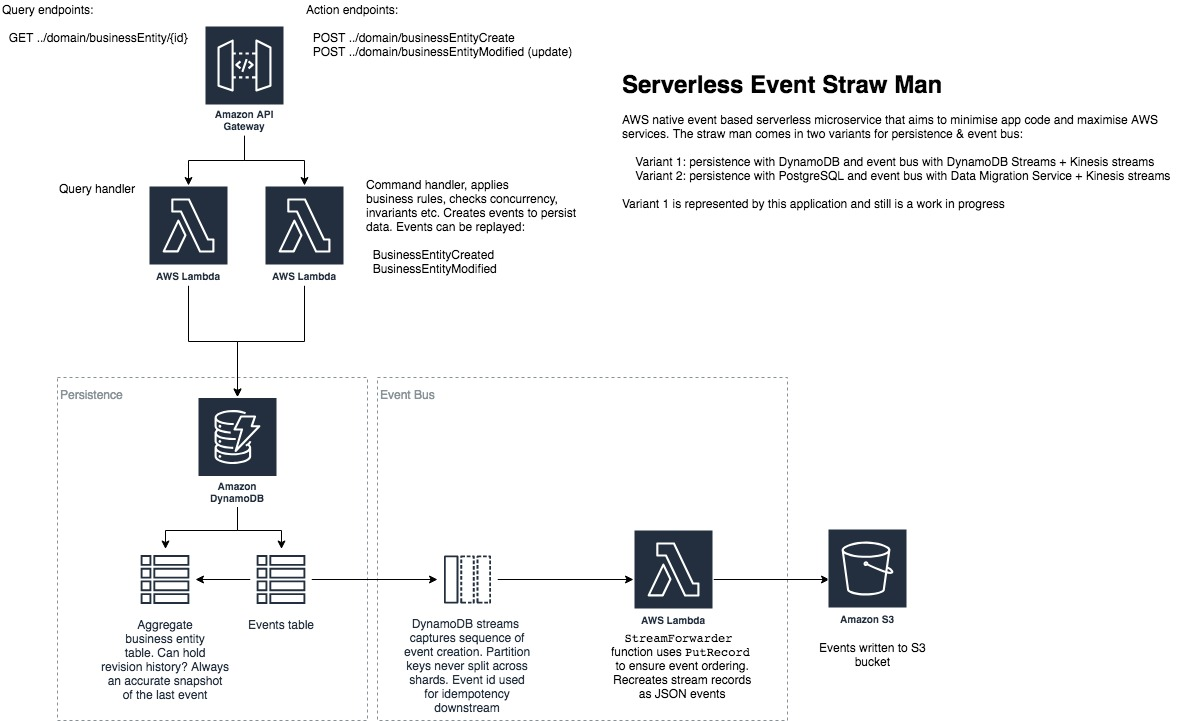
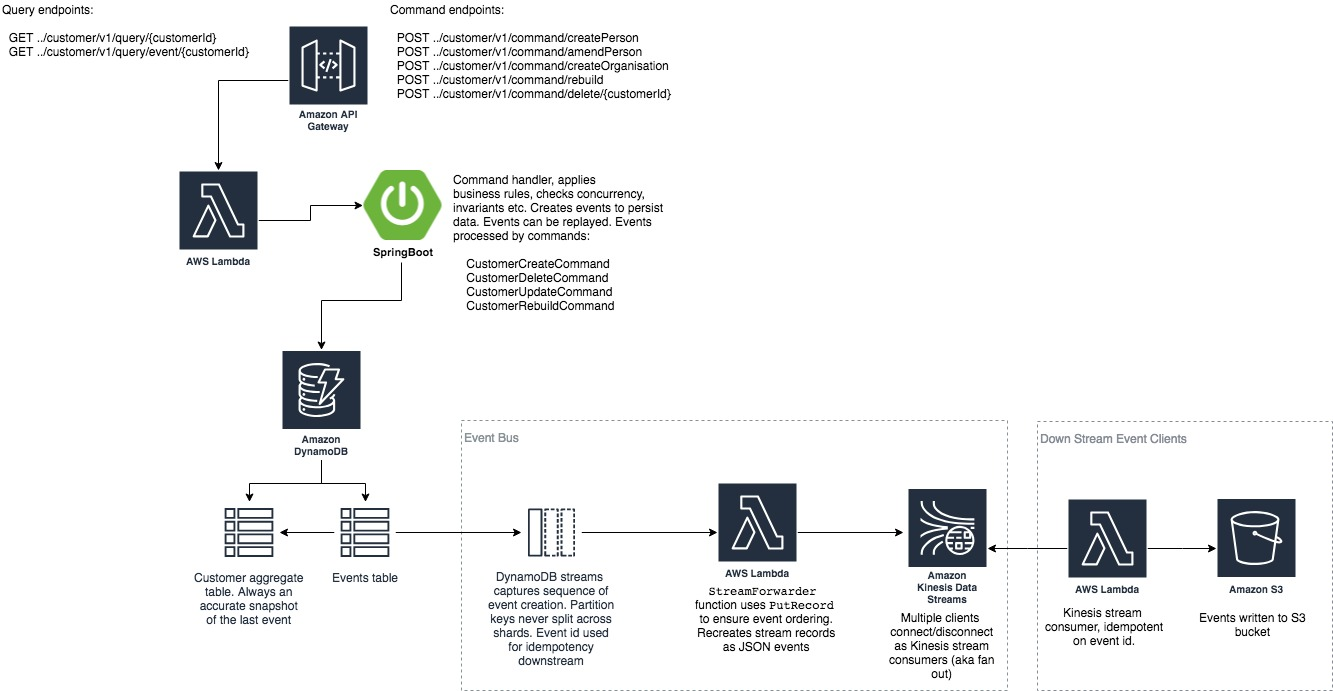
Added kinesis stream processing

diff --git a/src/main/java/com/sighware/customer/stream/DynamoDbStreamProcessor.java b/src/main/java/com/sighware/customer/stream/DynamoDbStreamProcessor.java
@@ -3,35 +3,56 @@ package com.sighware.customer.stream;
 import com.amazonaws.services.dynamodbv2.document.Item;
 import com.amazonaws.services.dynamodbv2.document.ItemUtils;
 import com.amazonaws.services.dynamodbv2.model.AttributeValue;
+import com.amazonaws.services.kinesis.AmazonKinesis;
+import com.amazonaws.services.kinesis.AmazonKinesisClientBuilder;
+import com.amazonaws.services.kinesis.model.PutRecordResult;
 import com.amazonaws.services.lambda.runtime.Context;
 import com.amazonaws.services.lambda.runtime.RequestHandler;
 import com.amazonaws.services.lambda.runtime.events.DynamodbEvent;
 import com.amazonaws.services.lambda.runtime.events.DynamodbEvent.DynamodbStreamRecord;
+import com.sighware.customer.event.CustomerEvent;
+import com.sighware.customer.util.JsonConverter;
 
+import java.nio.ByteBuffer;
+import java.nio.charset.StandardCharsets;
 import java.util.ArrayList;
 import java.util.List;
 import java.util.Map;
 
 /**
- * Processes new image events from a DynamoDB stream on the CustomerEvent table
+ * Processes new image events from a DynamoDB stream on the CustomerEvent table. Reads from the DynamoDB stream, converts
+ * data to a json CustomerEvent and then writes the json to the kinesis stream
  */
 public class DynamoDbStreamProcessor implements
         RequestHandler<DynamodbEvent, String> {
 
-    private static final String BUCKET_NAME = System.getenv("BUCKET_NAME");
-    private final EventWriter writer = new EventWriter();
+    private static final String KINESIS_STREAM_NAME = System.getenv("KINESIS_STREAM_NAME");
+    private final AmazonKinesis kinesis = AmazonKinesisClientBuilder.defaultClient();
 
     public String handleRequest(DynamodbEvent ddbEvent, Context context) {
+
         for (DynamodbStreamRecord record : ddbEvent.getRecords()) {
 
+            // Only process a new image
             Map<String, AttributeValue> newImage = record.getDynamodb().getNewImage();
-            List<Map<String, AttributeValue>> listOfMaps = new ArrayList<>();
-            listOfMaps.add(newImage);
-            List<Item> itemList = ItemUtils.toItemList(listOfMaps);
-            for (Item item : itemList) {
-                String json = item.toJSON();
-                System.out.println(json);
-                writer.write(BUCKET_NAME,json);
+            if (newImage != null) {
+
+                // Load the stream data to be converted into json
+                List<Map<String, AttributeValue>> listOfMaps = new ArrayList<>();
+                listOfMaps.add(newImage);
+                List<Item> itemList = ItemUtils.toItemList(listOfMaps);
+
+                for (Item item : itemList) {
+                    String json = item.toJSON();
+
+                    System.out.println(json);
+
+                    // Now write customer event to kinesis stream
+                    CustomerEvent event = (CustomerEvent) JsonConverter.toObject(json, CustomerEvent.class);
+                    ByteBuffer data = ByteBuffer.wrap(json.getBytes(StandardCharsets.UTF_8));
+                    PutRecordResult r = kinesis.putRecord(KINESIS_STREAM_NAME, data,
+                            event.getCustomerId() + "-" + event.getCreateTime());
+                }
             }
         }
         return "Ok";

diff --git a/src/main/java/com/sighware/customer/stream/KinesisStreamS3Processor.java b/src/main/java/com/sighware/customer/stream/KinesisStreamS3Processor.java
@@ -1,0 +1,25 @@
+package com.sighware.customer.stream;
+
+import com.amazonaws.services.lambda.runtime.Context;
+import com.amazonaws.services.lambda.runtime.RequestHandler;
+import com.amazonaws.services.lambda.runtime.events.KinesisEvent;
+
+/**
+ * Kinesis stream client that takes an item off the stream and writes it as a CustomerEvent to S3
+ */
+public class KinesisStreamS3Processor implements
+        RequestHandler<KinesisEvent, String> {
+
+    private static final String BUCKET_NAME = System.getenv("BUCKET_NAME");
+    private final EventWriter writer = new EventWriter();
+
+    public String handleRequest(KinesisEvent input, Context context) {
+
+        for (KinesisEvent.KinesisEventRecord record : input.getRecords()) {
+            String json = new String(record.getKinesis().getData().array());
+            System.out.println(json);
+            writer.write(BUCKET_NAME, json);
+        }
+        return "Ok";
+    }
+}

diff --git a/src/main/java/com/sighware/customer/event/CustomerEvent.java b/src/main/java/com/sighware/customer/event/CustomerEvent.java
@@ -3,7 +3,6 @@ package com.sighware.customer.event;
 import com.amazonaws.services.dynamodbv2.datamodeling.DynamoDBHashKey;
 import com.amazonaws.services.dynamodbv2.datamodeling.DynamoDBRangeKey;
 import com.amazonaws.services.dynamodbv2.datamodeling.DynamoDBTable;
-import com.fasterxml.jackson.annotation.JsonProperty;
 import com.sighware.customer.model.Customer;
 
 import java.time.ZoneOffset;
@@ -48,7 +47,7 @@ public class CustomerEvent {
         this.customerId = customerId;
     }
 
-//    @JsonProperty("timestamp")
+    //    @JsonProperty("timestamp")
     @DynamoDBRangeKey(attributeName = "createTime")
     public String getCreateTime() {
         return createTime;

diff --git a/src/main/java/com/sighware/customer/query/EventQuery.java b/src/main/java/com/sighware/customer/query/EventQuery.java
@@ -23,8 +23,8 @@ public class EventQuery {
     private static final Logger LOG = Logger.getLogger(EventQuery.class);
     private final ZonedDateTime startTime = ZonedDateTime.parse("1900-01-01T00:00:01.000Z");
     private final DynamoDBMapper mapper;
-    private ZonedDateTime endTime = ZonedDateTime.now(ZoneOffset.UTC);
     private final String customerId;
+    private ZonedDateTime endTime = ZonedDateTime.now(ZoneOffset.UTC);
 
     /**
      * Create an instance of EventQuery with an endTime of now

diff --git a/src/main/java/com/sighware/customer/controller/QueryController.java b/src/main/java/com/sighware/customer/controller/QueryController.java
@@ -38,7 +38,7 @@ public class QueryController {
      * @param customerId CustomerId to retrieve
      * @return a Customer
      */
-    @RequestMapping(path = "/get/{customerId}", method = RequestMethod.GET)
+    @RequestMapping(path = "/{customerId}", method = RequestMethod.GET)
     public ResponseEntity<Customer> getCustomer(@PathVariable("customerId") String customerId) {
 
         try {

diff --git a/src/main/java/com/sighware/customer/util/JsonConverter.java b/src/main/java/com/sighware/customer/util/JsonConverter.java
@@ -19,7 +19,7 @@ public class JsonConverter {
 
     public static Object toObject(String s, Class clazz) {
         try {
-            return om.readValue(s,clazz);
+            return om.readValue(s, clazz);
         } catch (IOException e) {
             throw new RuntimeException(e);
         }

diff --git a/src/main/java/com/sighware/customer/stream/EventWriter.java b/src/main/java/com/sighware/customer/stream/EventWriter.java
@@ -15,6 +15,7 @@ public class EventWriter {
 
     /**
      * Write CustomerEvent to the S3 bucket
+     *
      * @param bucket
      * @param event
      * @return

diff --git a/README.md b/README.md
@@ -22,13 +22,22 @@ The `Customer` table is the materialized view of the system of record, for quick
 
 The customer can be retrieved from either the materialized view held in the `Customer` table or rebuilt directly from the event stream held in the `CustomerEvent` table  
 
+### Event Bus
+
+Events traverse the event bus to notify downstream clients. The event bus comprises:
+
+1. A DynamoDB stream from the `CustomerEvent` table, emitting reliable, time ordered sequence of events 
+2. The `DynamoDbStreamProcessor` lambda picks data off the DynamoDB stream and reassembles it into a JSON representation of the event. This event is then written to a Kinesis stream.
+3. The `KinesisStreamS3Processor` lambda is an example of a Kinesis client, reading from the Kinesis stream. It writes the events to S3. Multiple other Lambdas could also access the same stream acting independently of each other 
+
 ### Outstanding Tasks
 
 Stuff for the next iteration:
 
-1. Finish issuing events to downstream applications with [Amazon Kinesis](https://aws.amazon.com/kinesis/)
+1. Change kinesis client to use HTTP/2 [enhanced fan-out](https://docs.aws.amazon.com/streams/latest/dev/introduction-to-enhanced-consumers.html)
 2. Ensure the app is transactional by using [Amazon DynamoDB Transactions](https://docs.aws.amazon.com/amazondynamodb/latest/developerguide/transactions.html), so that data updates are atomic across both the Customer and CustomerEvent table
-3. Consider rewriting in Node.js with TypeScript - the cold start times are a killer! 8 to 10 seconds
+3. Downstream client (KinesisStreamS3Processor) is not idempotent
+4. Consider rewriting in Node.js with TypeScript - the cold start times are a killer! 8 to 10 seconds
 
 ## Installation
 The customer record app is written with [Spring Boot 2 framework](https://projects.spring.io/spring-boot/). The `StreamLambdaHandler` object is the main entry point for Lambda.
@@ -156,7 +165,7 @@ $ curl -H "Content-Type: application/json" -X POST https://xxxxxxx.execute-api.e
 Retrieve a customer
 
 ```
-$ curl https://xxxxxxx.execute-api.eu-west-2.amazonaws.com/Prod/customer/v1/query/get/{customerId}
+$ curl https://xxxxxxx.execute-api.eu-west-2.amazonaws.com/Prod/customer/v1/query/{customerId}
 ```
 Get all the immutable events for a customer
 
